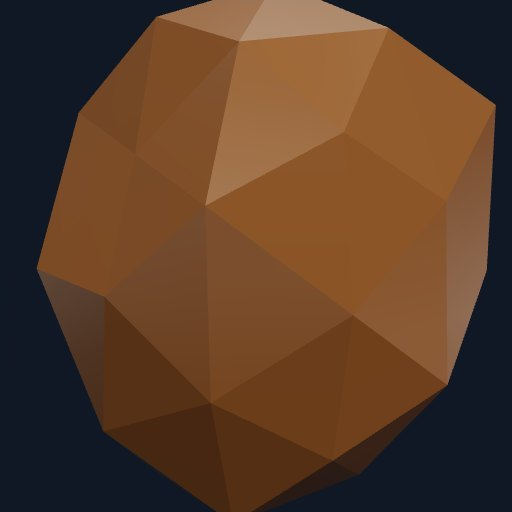
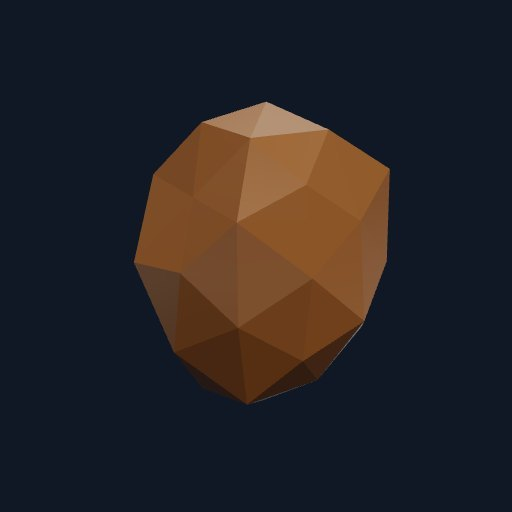
Gallery + landing polish pass
- Gallery thumbnails zoomed out: small stones centered in their squares
  with generous air; featured agate shown uncropped (seamless contain)
- 'Placeholder' tags now visible and elegant on all poly gems (dashed
  pill, bottom-center of tile); '3D scan' chips stay top-right
- Frequency section: new 1600x1280 render at the exact media-box ratio —
  full-bleed, no letterbox, no black border (fixed composite canvas bug
  in tools/og-template.html clean mode)
- Hero: fixed clipped 'g' descender (animation mask padding)
- Quiz + jewelry photos: portrait boxes so the assets aren't cropped away

diff --git a/gems/index.html b/gems/index.html
@@ -32,11 +32,13 @@ h1{font-family:'Fraunces';font-weight:300;font-size:clamp(38px,6vw,72px);letter-
 .card h3{font-family:'Fraunces';font-weight:400;font-size:21px}
 .card .cat{font-size:11px;letter-spacing:.22em;text-transform:uppercase;color:var(--copper);font-weight:600;margin-bottom:6px}
 .card .price{color:var(--soft);font-size:13.5px;margin-top:5px}
-.card .chip{position:absolute;top:12px;right:12px;font-size:10px;letter-spacing:.14em;text-transform:uppercase;
-  font-weight:600;padding:5px 9px;border-radius:100px;border:1px solid var(--line);color:var(--soft);background:rgba(10,16,23,.55)}
+.card .chip{position:absolute;top:12px;right:12px;z-index:3;font-size:10px;letter-spacing:.14em;text-transform:uppercase;
+  font-weight:600;padding:5px 9px;border-radius:100px;border:1px solid var(--line);color:var(--soft);background:rgba(10,16,23,.62);backdrop-filter:blur(6px)}
+.card .chip.ph{top:auto;bottom:12px;left:50%;right:auto;transform:translateX(-50%);border:1px dashed #3a4c66;color:#8b9bb0}
 .card .chip.live{color:#8ad0a2;border-color:#2c4a38}
 .card.featured{grid-column:span 2}
 .card.featured .tile{aspect-ratio:2/1}
+.card.featured .timg{object-fit:contain}
 @media(max-width:460px){.card.featured{grid-column:span 1}.card.featured .tile{aspect-ratio:1/1}}
 /* ---- viewer ---- */
 .viewer{position:fixed;inset:0;z-index:50;background:rgba(7,11,17,.9);backdrop-filter:blur(10px);
@@ -134,7 +136,7 @@ const grid=document.getElementById('grid');
 const hasGLB={}; // filled by HEAD checks
 GEMS.forEach((g,i)=>{
   const el=document.createElement('div');el.className='card'+(g.featured?' featured':'');el.style.setProperty('--glow','#'+g.color.toString(16).padStart(6,'0'));
-  el.innerHTML=`<span class="chip" id="chip-${g.slug}">Placeholder</span>
+  el.innerHTML=`<span class="chip ph" id="chip-${g.slug}">Placeholder</span>
     <div class="tile">${crystalSVG(g.color)}<img class="timg" src="../assets/img/thumbs/${g.slug}.jpg" alt="" onerror="this.remove()"></div>
     <div class="meta"><div class="cat">${g.cat}</div><h3>${g.name}</h3><div class="price">${g.price}</div></div>`;
   el.addEventListener('click',()=>openViewer(g));
@@ -142,7 +144,7 @@ GEMS.forEach((g,i)=>{
   fetch(`../assets/gems/${g.slug}.glb`,{method:'HEAD'}).then(r=>{
     hasGLB[g.slug]=r.ok;
     const chip=document.getElementById('chip-'+g.slug);
-    if(r.ok){chip.textContent='3D scan';chip.classList.add('live');}
+    if(r.ok){chip.textContent='3D scan';chip.classList.add('live');chip.classList.remove('ph');}
   }).catch(()=>{hasGLB[g.slug]=false;});
 });
 

diff --git a/index.html b/index.html
@@ -129,7 +129,7 @@ header.nav.solid{background:color-mix(in srgb,var(--bg) 90%,transparent);backdro
 .hero-copy{max-width:640px;padding-block:clamp(70px,12vh,140px);}
 .hero .eyebrow{color:var(--hero-accent);display:block;overflow:hidden;}
 .hero h1{font-size:clamp(34px,4.6vw,66px);line-height:1.06;letter-spacing:-.018em;font-weight:400;text-shadow:var(--hero-shadow);margin-top:24px;}
-.hero h1 .line{display:block;overflow:hidden;}
+.hero h1 .line{display:block;overflow:hidden;padding-bottom:.16em;margin-bottom:-.16em;}
 .hero h1 .line span{display:block;transform:translateY(105%);}
 .hero .sub{font-family:var(--sans);font-weight:500;font-style:normal;font-size:clamp(18px,1.9vw,23px);line-height:1.4;
   color:var(--hero-sub);margin-top:26px;max-width:30ch;line-height:1.25;}
@@ -439,7 +439,7 @@ footer.site{background:var(--tint);border-top:1px solid var(--hair);}
 <!-- ===== FREQUENCY ===== -->
 <section class="section freq" id="frequency">
   <div class="wrap split rev">
-    <div class="media reveal"><img src="assets/img/generator-render.jpg" alt="The Energy Muse frequency generator: gold spiral coil in a glossy black plate" style="object-fit:contain;background:#0a1017;padding:6%"></div>
+    <div class="media reveal"><img src="assets/img/generator-render.jpg" alt="The Energy Muse frequency generator: gold spiral coil in a glossy black plate"></div>
     <div class="copy reveal d1">
       <span class="eyebrow">Clear &middot; Material &middot; Specific</span>
       <h2>Frequency, made tangible.</h2>

diff --git a/tools/og-template.html b/tools/og-template.html
@@ -11,7 +11,8 @@ body{margin:0;background:#222;display:grid;place-items:center;min-height:100vh}
 <script>
 window.addEventListener('error',e=>{window.__err=(e.message||'')+' @'+e.lineno;});
 // ---- offscreen 3D render of the device (2x for crispness) ----
-const W=2400,H=1260;
+const CLEANQ=new URLSearchParams(location.search).get('clean')==='1';
+const W=CLEANQ?1600:2400,H=CLEANQ?1280:1260;
 const glCanvas=document.createElement('canvas');
 const renderer=new THREE.WebGLRenderer({canvas:glCanvas,antialias:true,alpha:true,preserveDrawingBuffer:true});
 renderer.setPixelRatio(1);renderer.setSize(W,H,false);
@@ -91,12 +92,13 @@ lid.position.y=0.16;device.add(lid);
 // composition: device on the right, hero angle — or centered when ?clean=1
 const CLEAN=new URLSearchParams(location.search).get('clean')==='1';
 if(CLEAN){device.position.set(0,-0.02,0);device.rotation.y=-0.78;device.rotation.x=0.55;
-  camera.position.set(0,1.7,3.4);camera.lookAt(0,0,0);}
+  camera.position.set(0,1.52,3.15);camera.lookAt(0,0.02,0);}
 else{device.position.set(0.78,-0.05,0);device.rotation.y=-0.78;device.rotation.x=0.5;
   camera.position.set(0,1.62,3.7);camera.lookAt(0.1,0,0);}
 
 // ---- composite: bg + 3D + type ----
 const out=document.getElementById('out');
+out.width=W;out.height=H;
 const ctx=out.getContext('2d');
 function draw(){
   renderer.render(scene,camera);

diff --git a/tools/thumbs.html b/tools/thumbs.html
@@ -21,7 +21,7 @@ renderer.toneMapping=THREE.ACESFilmicToneMapping;renderer.toneMappingExposure=1.
 const scene=new THREE.Scene();
 scene.background=new THREE.Color(0x101826);
 const camera=new THREE.PerspectiveCamera(34,1,0.05,50);
-camera.position.set(0.55,0.75,2.55);camera.lookAt(0,0,0);
+camera.position.set(0.5,0.7,3.05);camera.lookAt(0,0,0);
 (function env(){
   const cv=document.createElement('canvas');cv.width=64;cv.height=256;const x=cv.getContext('2d');
   const base=x.createLinearGradient(0,0,0,256);
@@ -90,7 +90,7 @@ const BUILDERS={spirituality:buildAmethyst,wealth:buildPyrite,'fresh-start':buil
 function fit(obj){
   const box=new THREE.Box3().setFromObject(obj);
   const size=box.getSize(new THREE.Vector3()),center=box.getCenter(new THREE.Vector3());
-  const s=1.7/Math.max(size.x,size.y,size.z);
+  const s=1.15/Math.max(size.x,size.y,size.z);
   obj.position.sub(center).multiplyScalar(s);obj.scale.setScalar(s);
   const wrap=new THREE.Group();wrap.add(obj);return wrap;}
 
